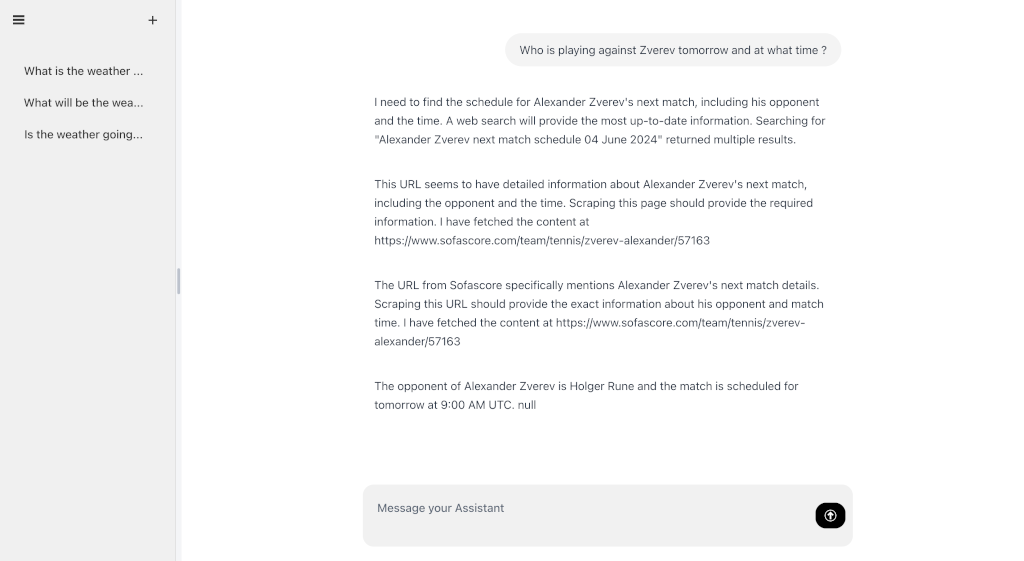
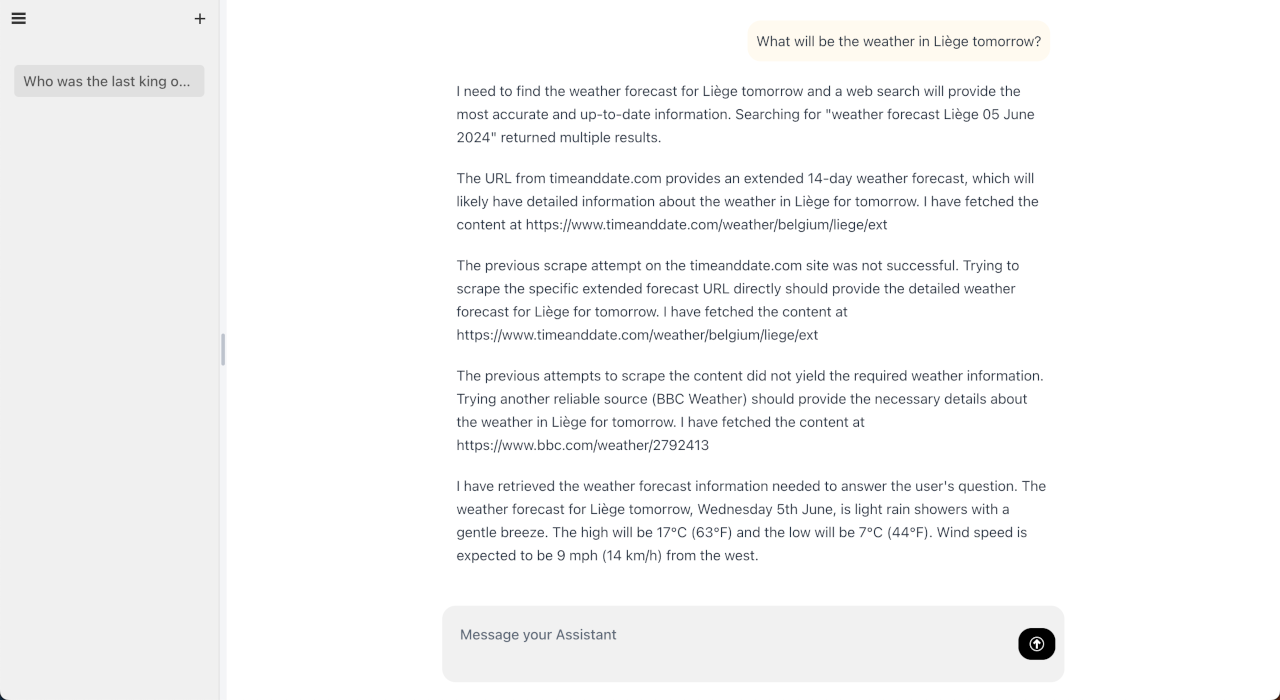
Updated styling and picture

diff --git a/frontend/themes/opengpa/styles.css b/frontend/themes/opengpa/styles.css
@@ -89,15 +89,14 @@
   align-items: center;
   width: 100%;
   color: #555;
-  background-color: #e0e0e0;
   padding: 10px;
   text-decoration: none;
   border-radius: 5px;
+  background-color: #e0e0e0;
   border: none;
   cursor: pointer;
   text-align: left; /* Align text to the left */
-  margin: 0;
-  box-sizing: border-box; /* Ensure padding does not add to element's size */
+  text-overflow: ellipsis;
 }
 
 .task-item:hover {
@@ -116,8 +115,4 @@
 
 .bot-message {
 
-}
-
-.task-item vaadin-button::part(label) {
-  text-align: left;
 }

diff --git a/src/main/java/org/opengpa/frontend/MainView.java b/src/main/java/org/opengpa/frontend/MainView.java
@@ -27,7 +27,7 @@ import java.util.List;
 @Route("")
 public class MainView extends VerticalLayout {
 
-    public static final int HISTORY_LABEL_SIZE = 20;
+    public static final int HISTORY_LABEL_SIZE = 35;
     private final TaskService taskService;
 
     private Task currentTask;

diff --git a/README.md b/README.md
@@ -84,7 +84,7 @@ for configuration options and the spring-ai documentation to configure support f
 
 ```bash
 mvn clean package -Pproduction
-OPENAI_API_KEY=sk-*** java -jar target/opengpa-service-0.0.1-SNAPSHOT.jar
+OPENAI_API_KEY=sk-*** java -jar target/opengpa-full-0.0.1-SNAPSHOT.jar
 ```
 
 Open the UI on [http://localhost:8000](http://localhost:8000)
